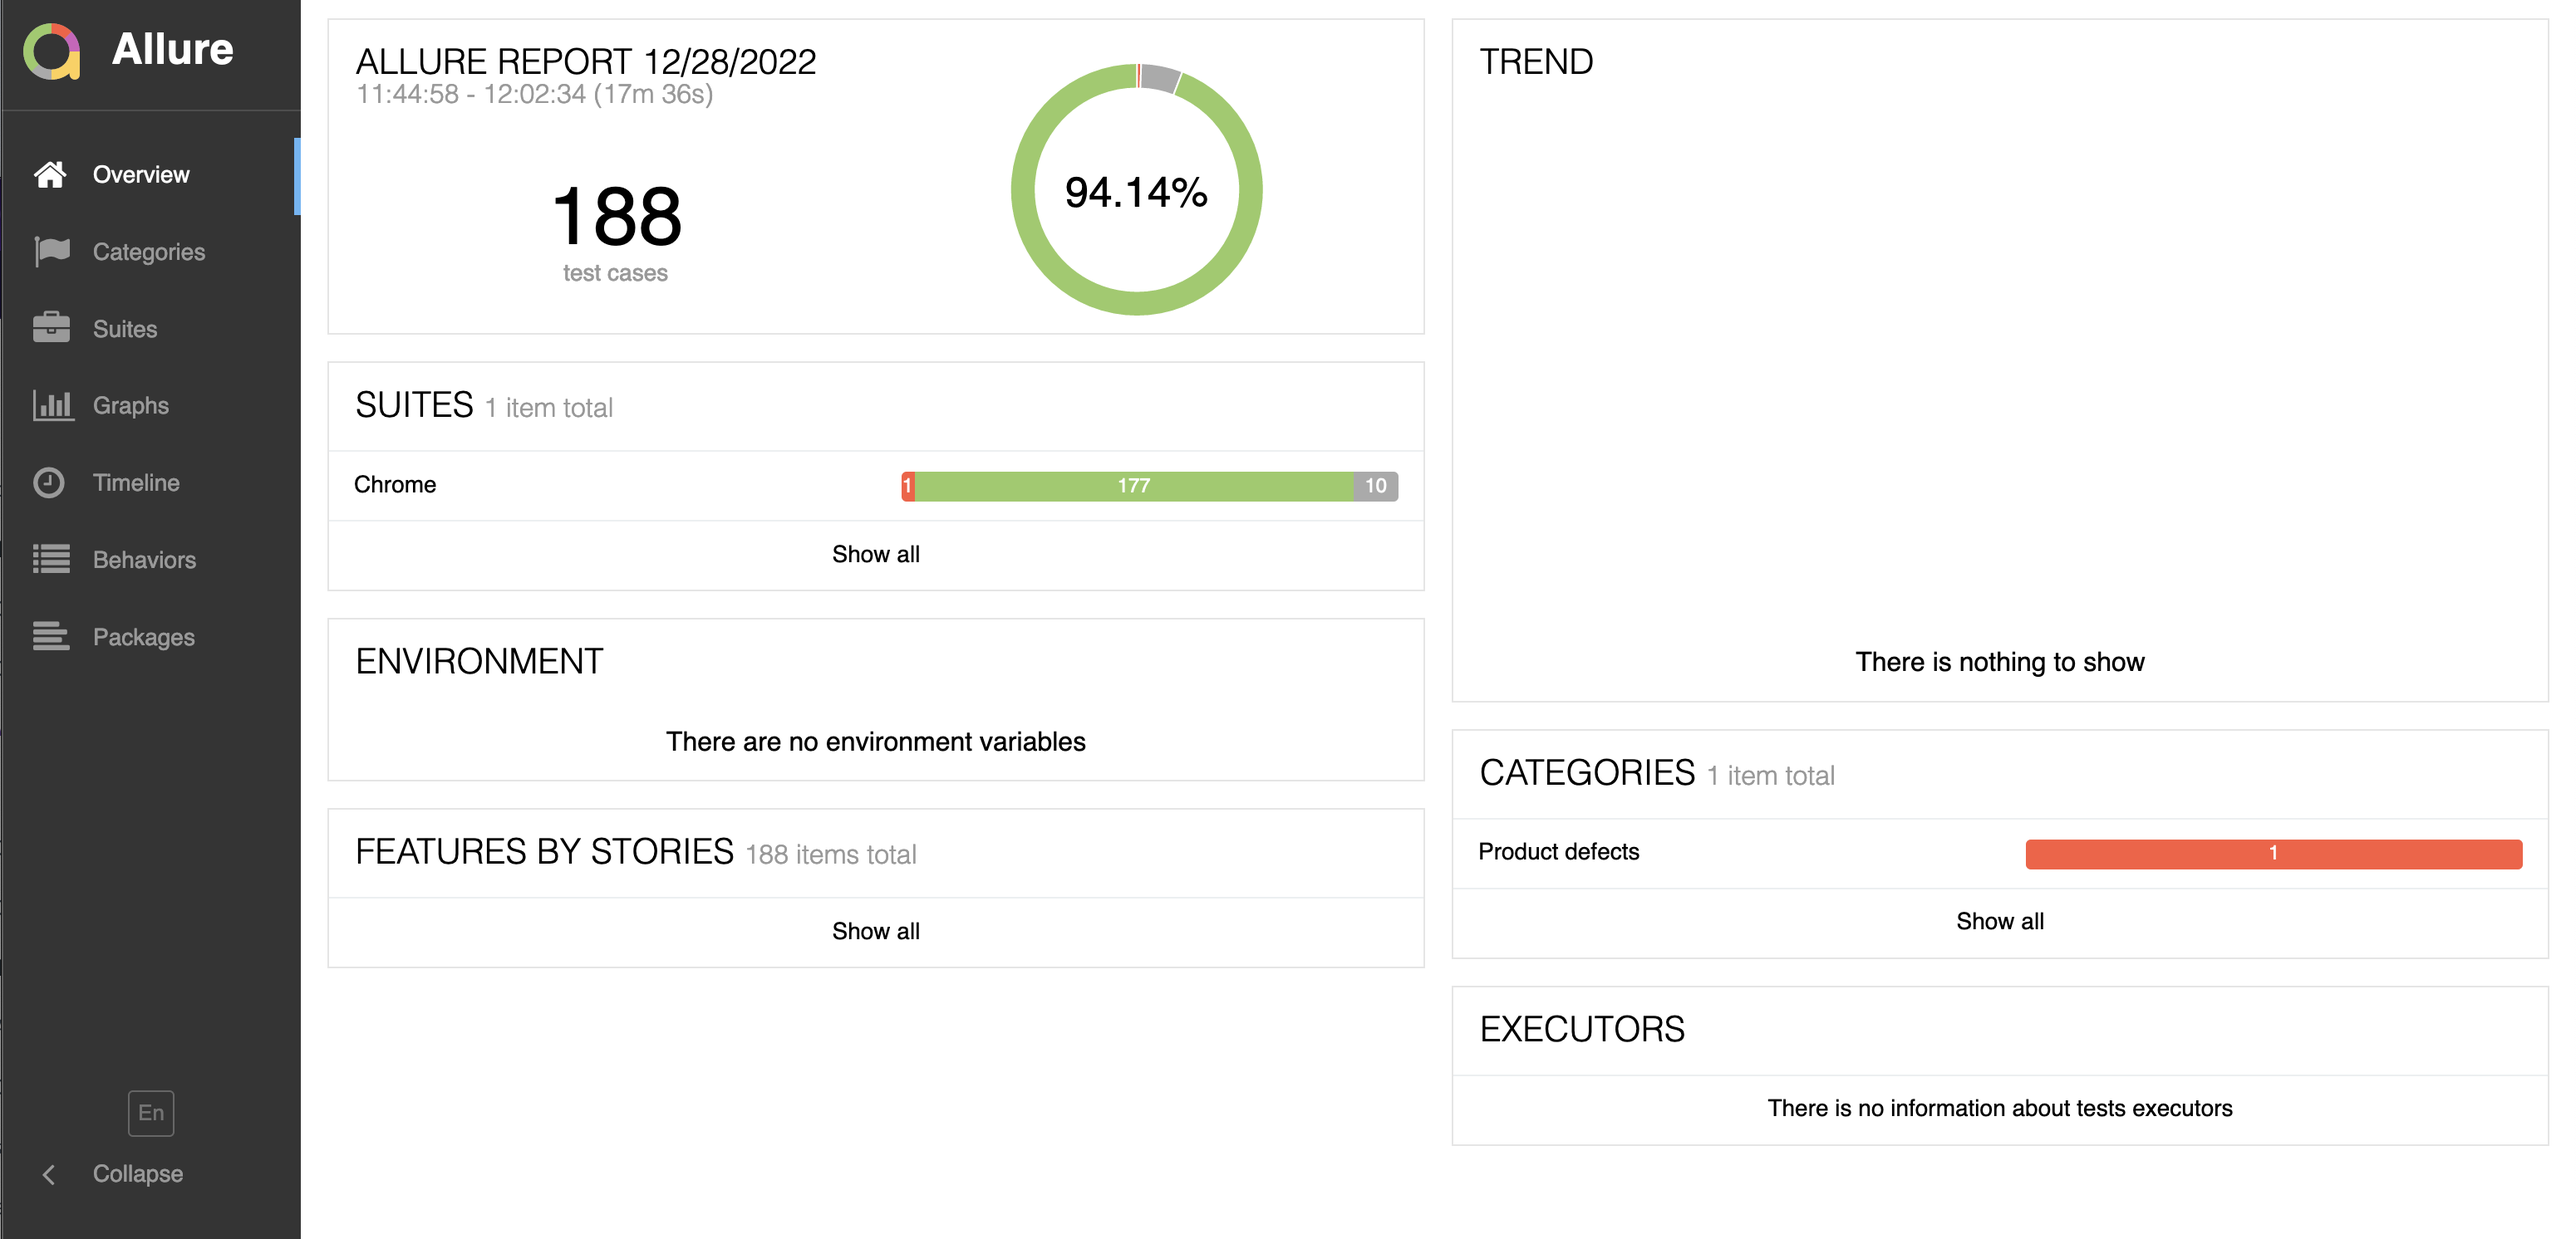
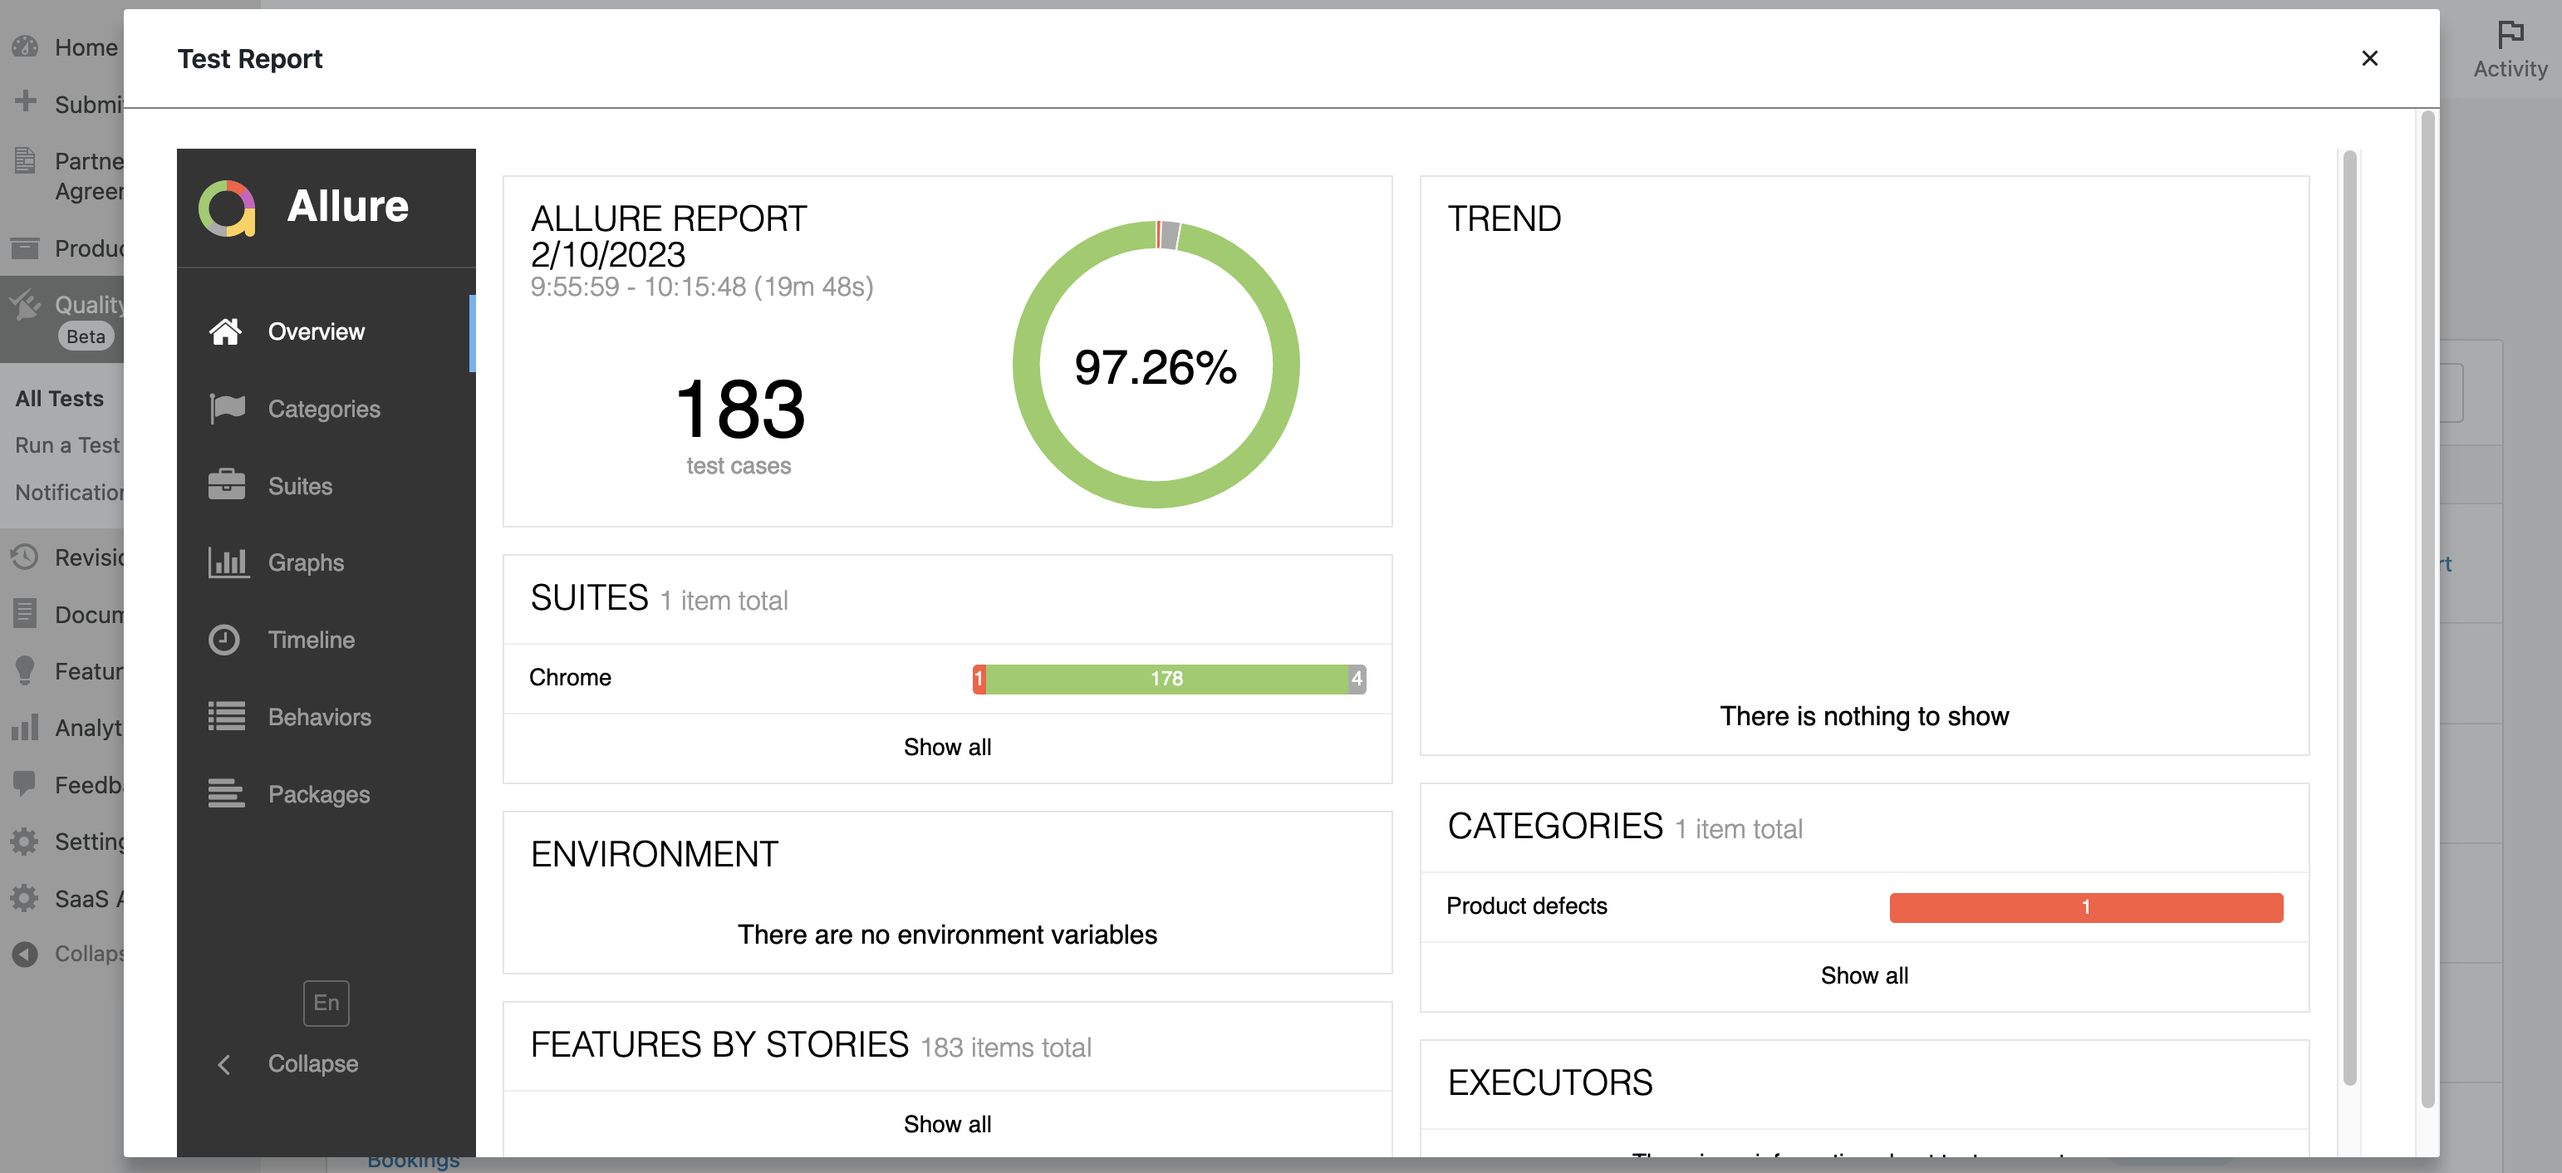
Updated Allure report screenshot

diff --git a/docs/understanding-allure-results.md b/docs/understanding-allure-results.md
@@ -6,7 +6,7 @@ For end-to-end test failures, an Allure test report will be generated and is ava
 
 An Allure report is generated for end-to-end test failures and can be viewed by clicking the `View Report` button on the `Quality Insights > All Tests` page in the QIT Dashboard:
 
-Following this link will open the Allure test results in a tab in your browser:
+Following this link will open the Allure test results in a modal:
 
 ![allure-report-home](_media/allure-report-home.png)
 
